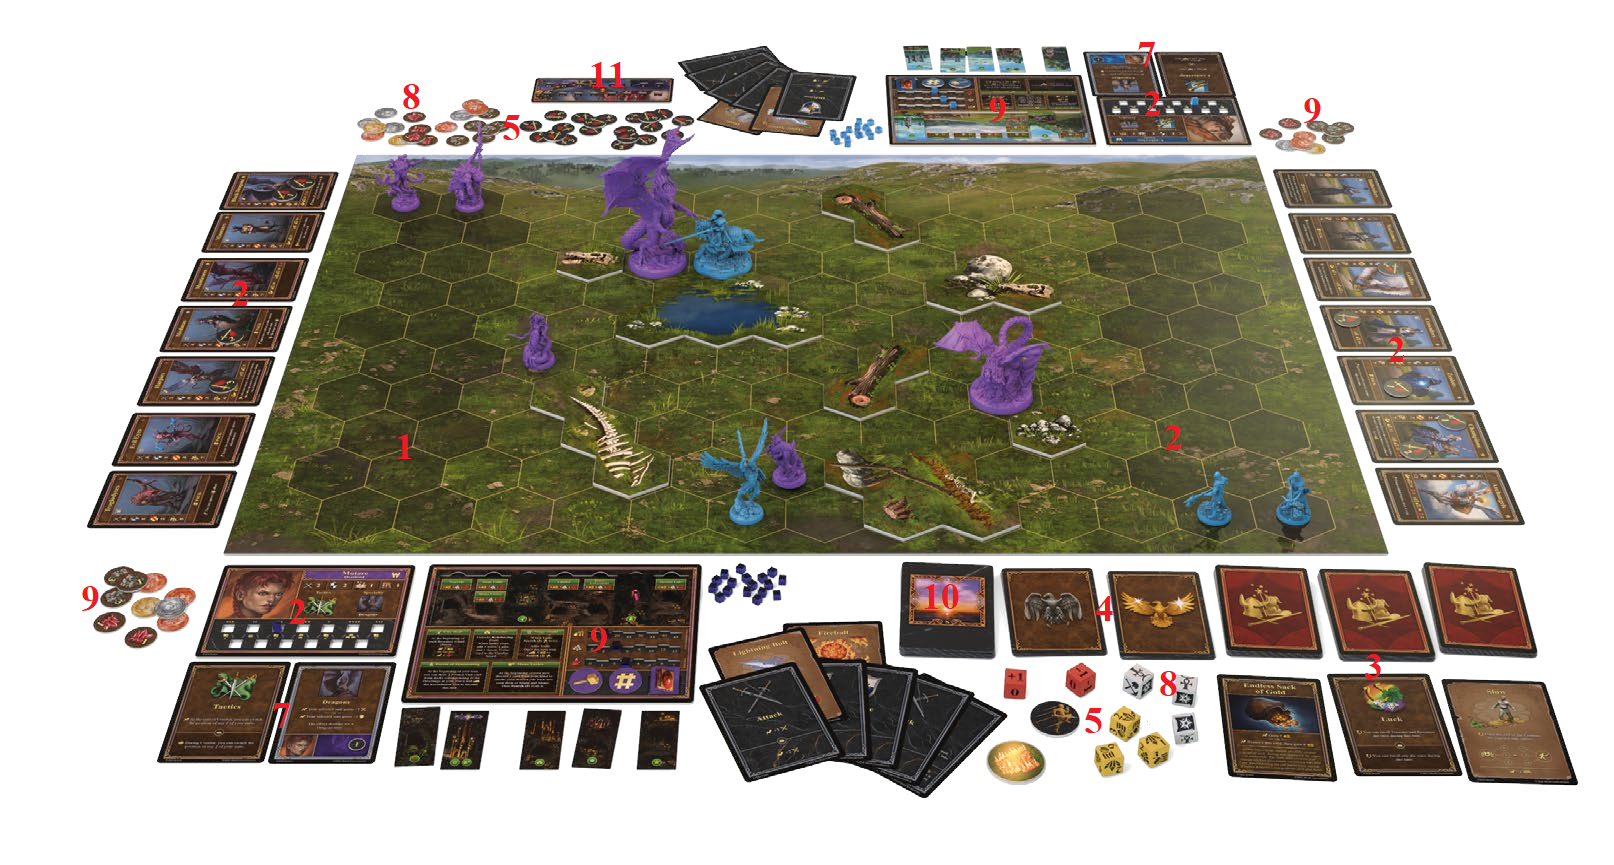
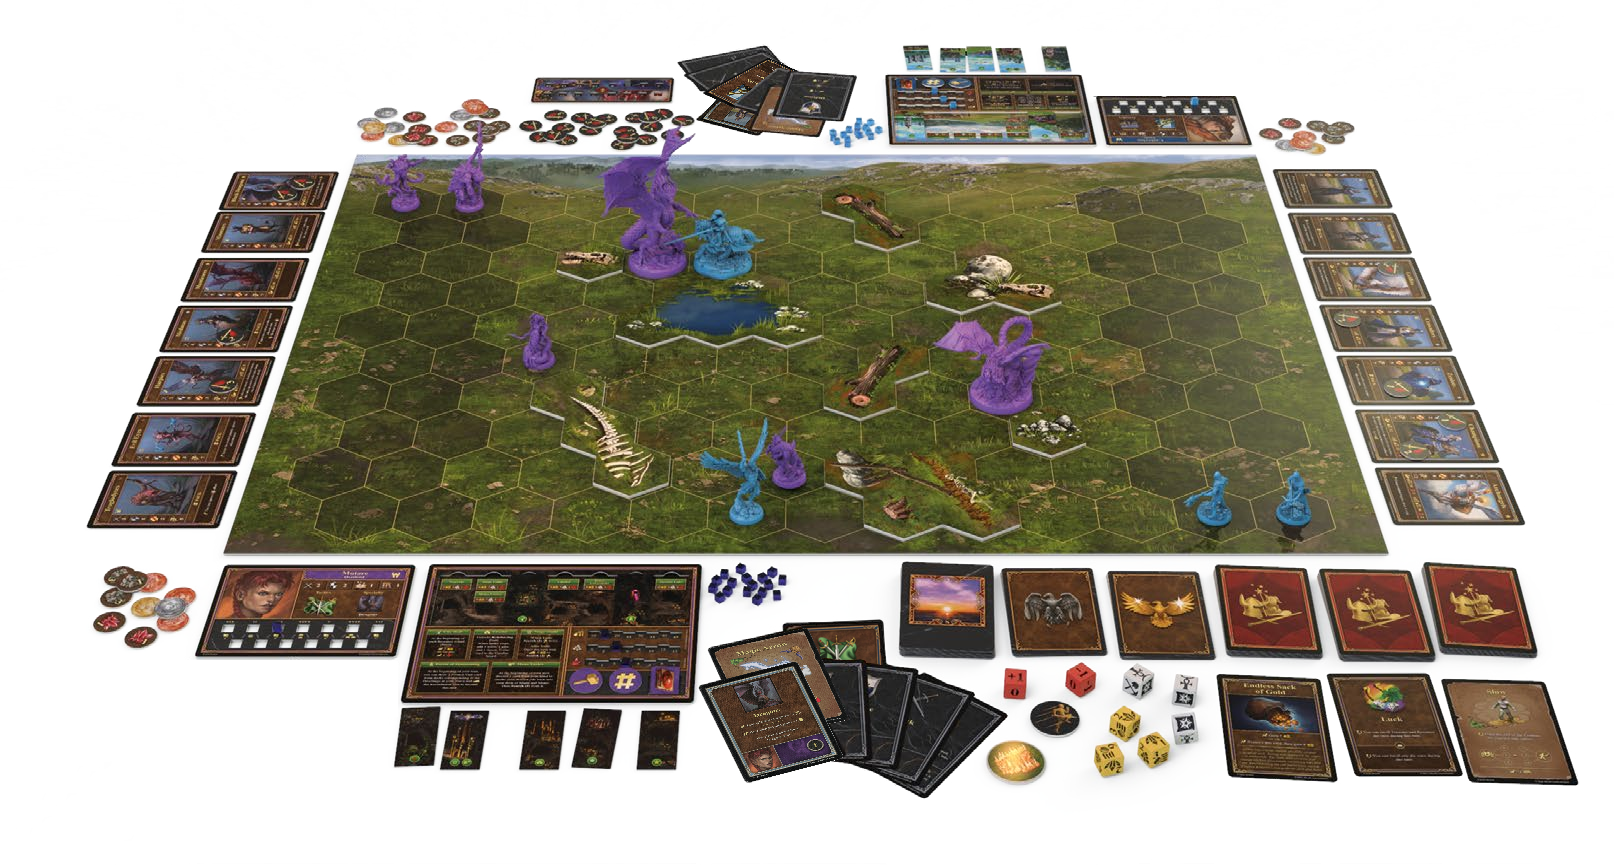
update bf setup image
encircle the numbers
move starting ability + specialty into the hand

diff --git a/sections/adventure_and_skirmish_mode.tex b/sections/adventure_and_skirmish_mode.tex
@@ -57,10 +57,10 @@
       \item Place the Battlefield Board in the middle of the table.
       \item Each player chooses a Faction and a Hero of that Faction and takes its following components:
       \begin{itemize}
-        \item Hero Board
-        \item 3 Hero's Specialty cards and its starting Ability card
-        \item 7 unit cards and their corresponding 7 unit miniatures
-        \item 20 Faction Cubes
+        \item[a)] Hero Board
+        \item[b)] 3 Hero's Specialty cards and its starting Ability card
+        \item[c)] 7 unit cards and their corresponding 7 unit miniatures
+        \item[d)] 20 Faction Cubes
       \end{itemize}
       \item Prepare the Artifact, Spell and Ability Deck normally. Remove the following Ability cards from play: ``Diplomacy'', ``Logistics''.
       \item Prepare the Positive and Negative \pagelink{Morale Cards}{\textbf{Morale cards}} (including all cards with the battlefield symbol).
@@ -71,12 +71,12 @@
 
      \subsection*{Additional Steps for Adventure Mode}
      \begin{enumerate}[resume]
-      \item Put also Resource Token and Treasure Dice ready.
+      \item Put also Resource Tokens and Treasure Dice ready.
       \item Each player takes the Town Board with following starting requirements:
       \begin{itemize}
-        \item Income tracks at 10 \svg{gold}, 0 \svg{building_materials} and 0 \svg{valuablegreater}.
-        \item Starting resources: 15 \svg{gold}, 3 \svg{building_materials} and 1 \svg{valuablegreater}.
-        \item Start without Town Buildings and without units in your Unit Deck
+        \item[a)] Income tracks at 10 \svg{gold}, 0 \svg{building_materials} and 0 \svg{valuablegreater}.
+        \item[b)] Starting resources: 15 \svg{gold}, 3 \svg{building_materials} and 1 \svg{valuablegreater}.
+        \item[c)] Start without Town Buildings and without units in your Unit Deck
       %https://boardgamegeek.com/thread/3284421/article/44125381#44125381 (clarification1)
       \end{itemize}
       \item Shuffle the Adventure card Deck and place it face down.
@@ -92,7 +92,31 @@
   You only need it in the Final Combat.
   \end{multicols}
 \begin{center}
-  \includegraphics[width=0.9\linewidth]{\images/battlefield_setup.png}
+  \begin{scriptsize}
+  \begin{tikzpicture}
+    \draw (0, 0) node[inner sep=0] {\makebox[\textwidth][c]{\includegraphics[width=0.9\linewidth]{\images/battlefield_setup.png}}};
+    \draw (-4, 0) node {\encircle{\phantom{.}1\phantom{.}}};
+    \draw (-5, -1.5) node {\encircle{2a}};
+    \draw (3.8, 2.9) node {\encircle{2a}};
+    \draw (-5.5, 1.2) node {\encircle{2c}};
+    \draw (2, 0.2) node {\encircle{2c}};
+    \draw (5.5, 1.2) node {\encircle{2c}};
+    \draw (5.3, -2) node {\encircle{\phantom{.}3\phantom{.}}};
+    \draw (2.9, -1.6) node {\encircle{\phantom{.}4\phantom{.}}};
+    \draw (-2, 2.8) node {\encircle{\phantom{.}5\phantom{.}}};
+    \draw (2.8, -2.5) node {\encircle{\phantom{.}6\phantom{.}}};
+    \draw (0, -2.5) node {\encircle{\phantom{.}7\phantom{.}}};
+    \draw (0, 3.4) node {\encircle{\phantom{.}7\phantom{.}}};
+    \draw (3.5, -3) node {\encirclered{\phantom{.}8\phantom{.}}};
+    \draw (-3.8, 3) node {\encirclered{\phantom{.}8\phantom{.}}};
+    \draw (-2, -2) node {\encirclered{9a}};
+    \draw (2, 3) node {\encirclered{9a}};
+    \draw (-6, -1.7) node {\encirclered{9b}};
+    \draw (5, 3) node {\encirclered{9b}};
+    \draw (1, -1.6) node {\encirclered{10}};
+    \draw (-1.9, 3.5) node {\encirclered{11}};
+  \end{tikzpicture}
+  \end{scriptsize}
 \end{center}
 \end{expansion}
 

diff --git a/metadata.tex b/metadata.tex
@@ -536,6 +536,10 @@
   \tikz[baseline=(X.base)]
   \node (X) [draw=white, shape=circle, inner sep=0, fill=goblin, text=white, blur shadow={shadow blur steps=5}] {\strut \textbf{#1}};%
 }
+\newcommand\encirclered[1]{%
+  \tikz[baseline=(X.base)]
+  \node (X) [draw=white, shape=circle, inner sep=0, fill=darkcandyapplered, text=white, blur shadow={shadow blur steps=5}] {\strut \textbf{#1}};%
+}
 
 \newcommand{\drawbottom}{
   \iftoggle{textright2left}{
